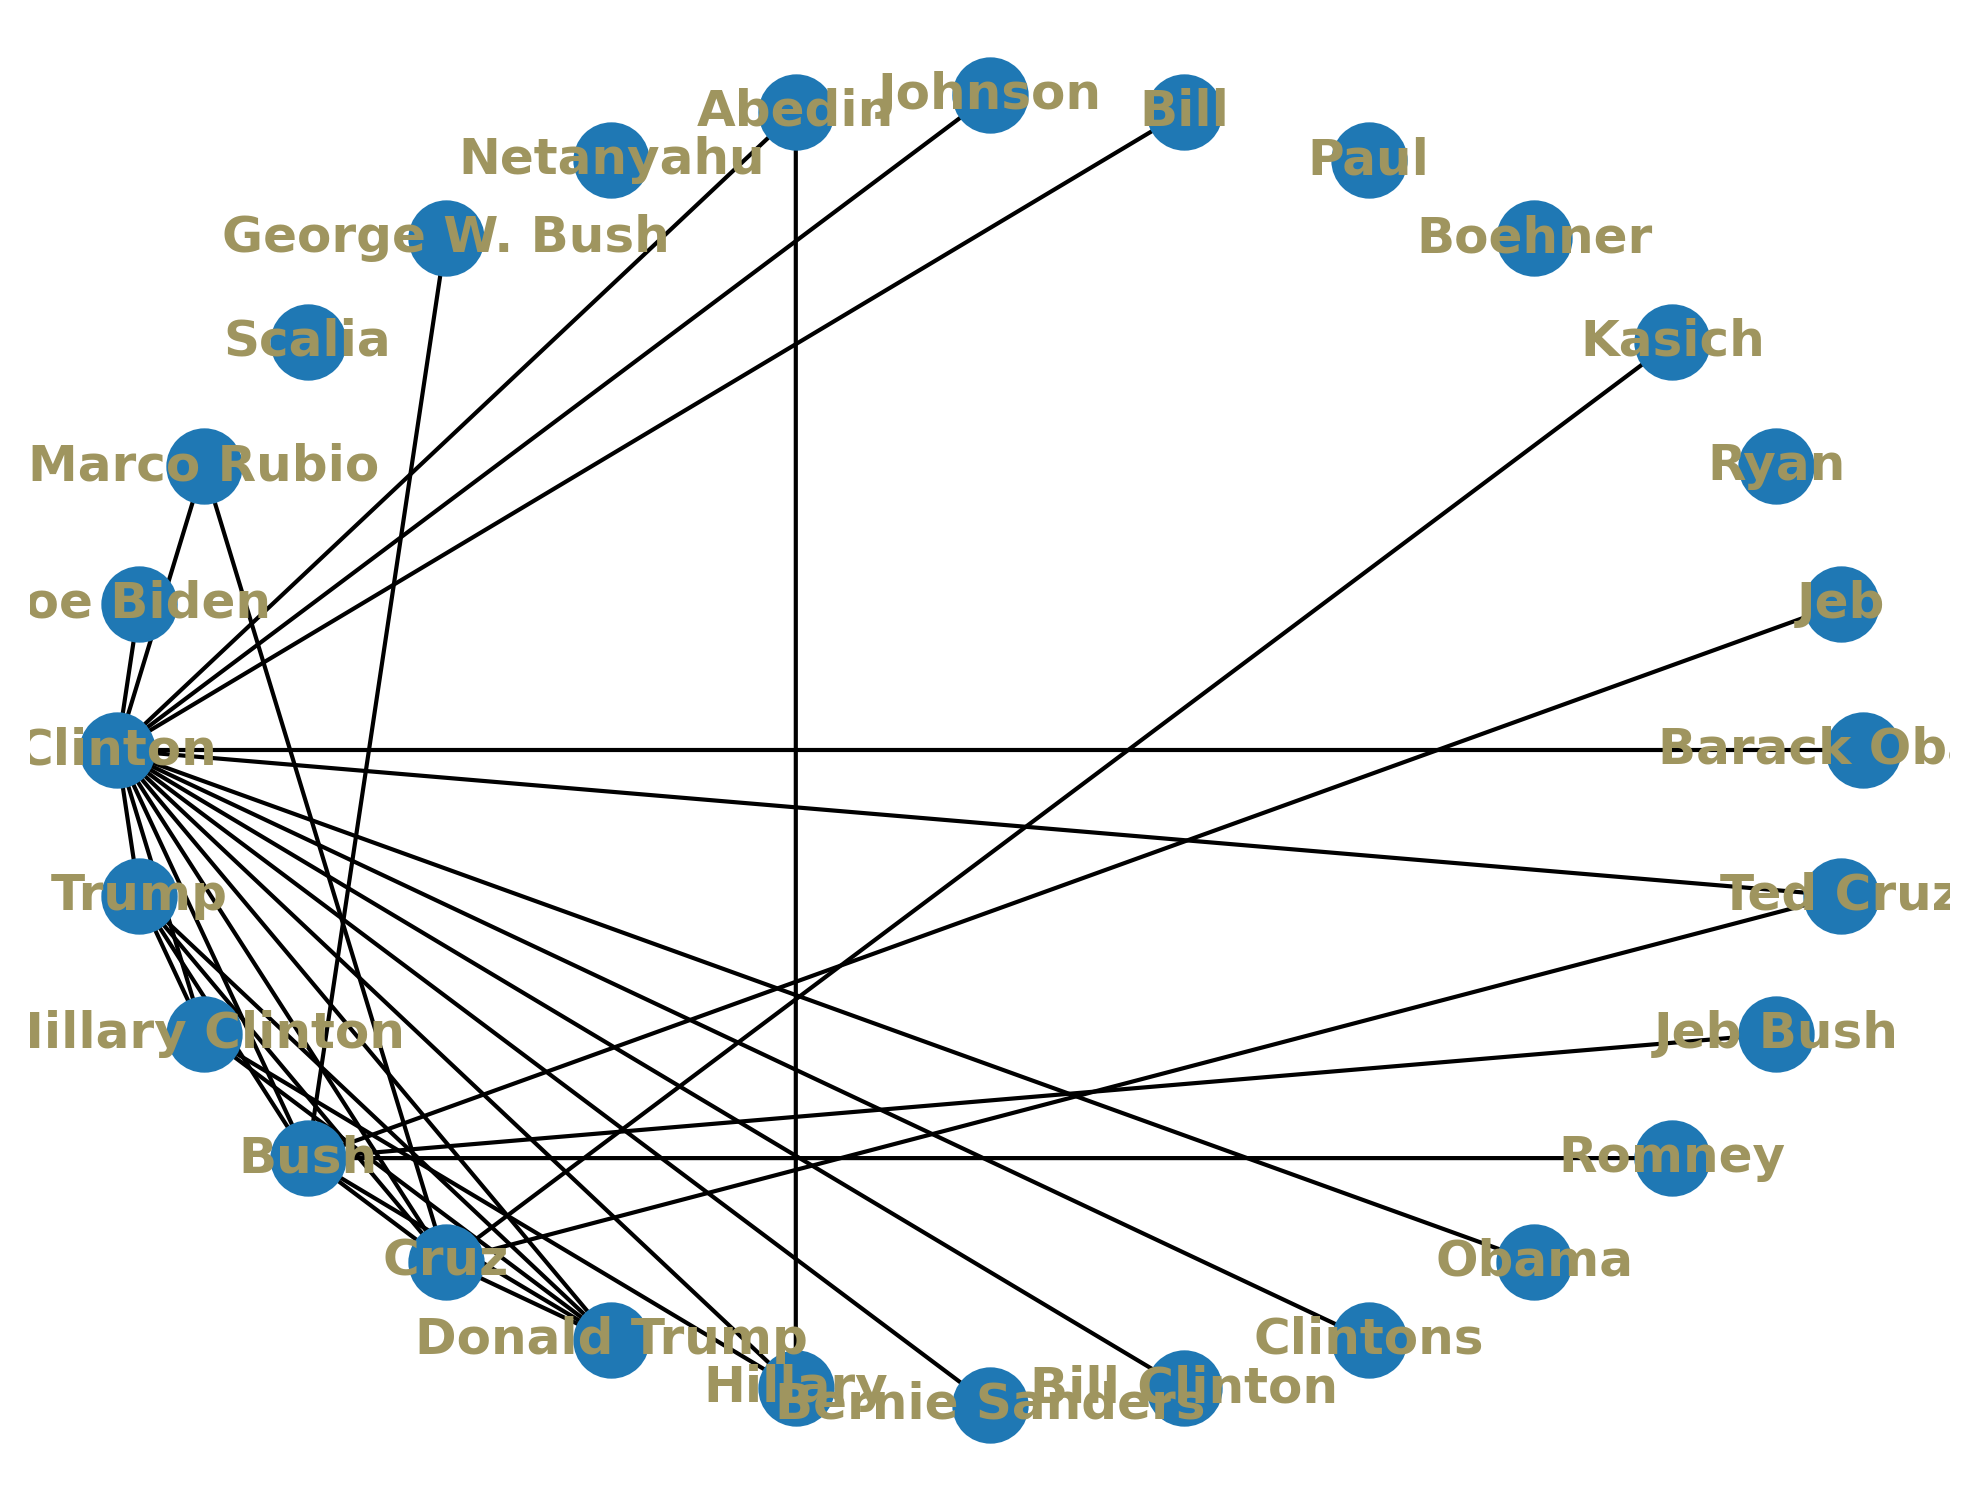
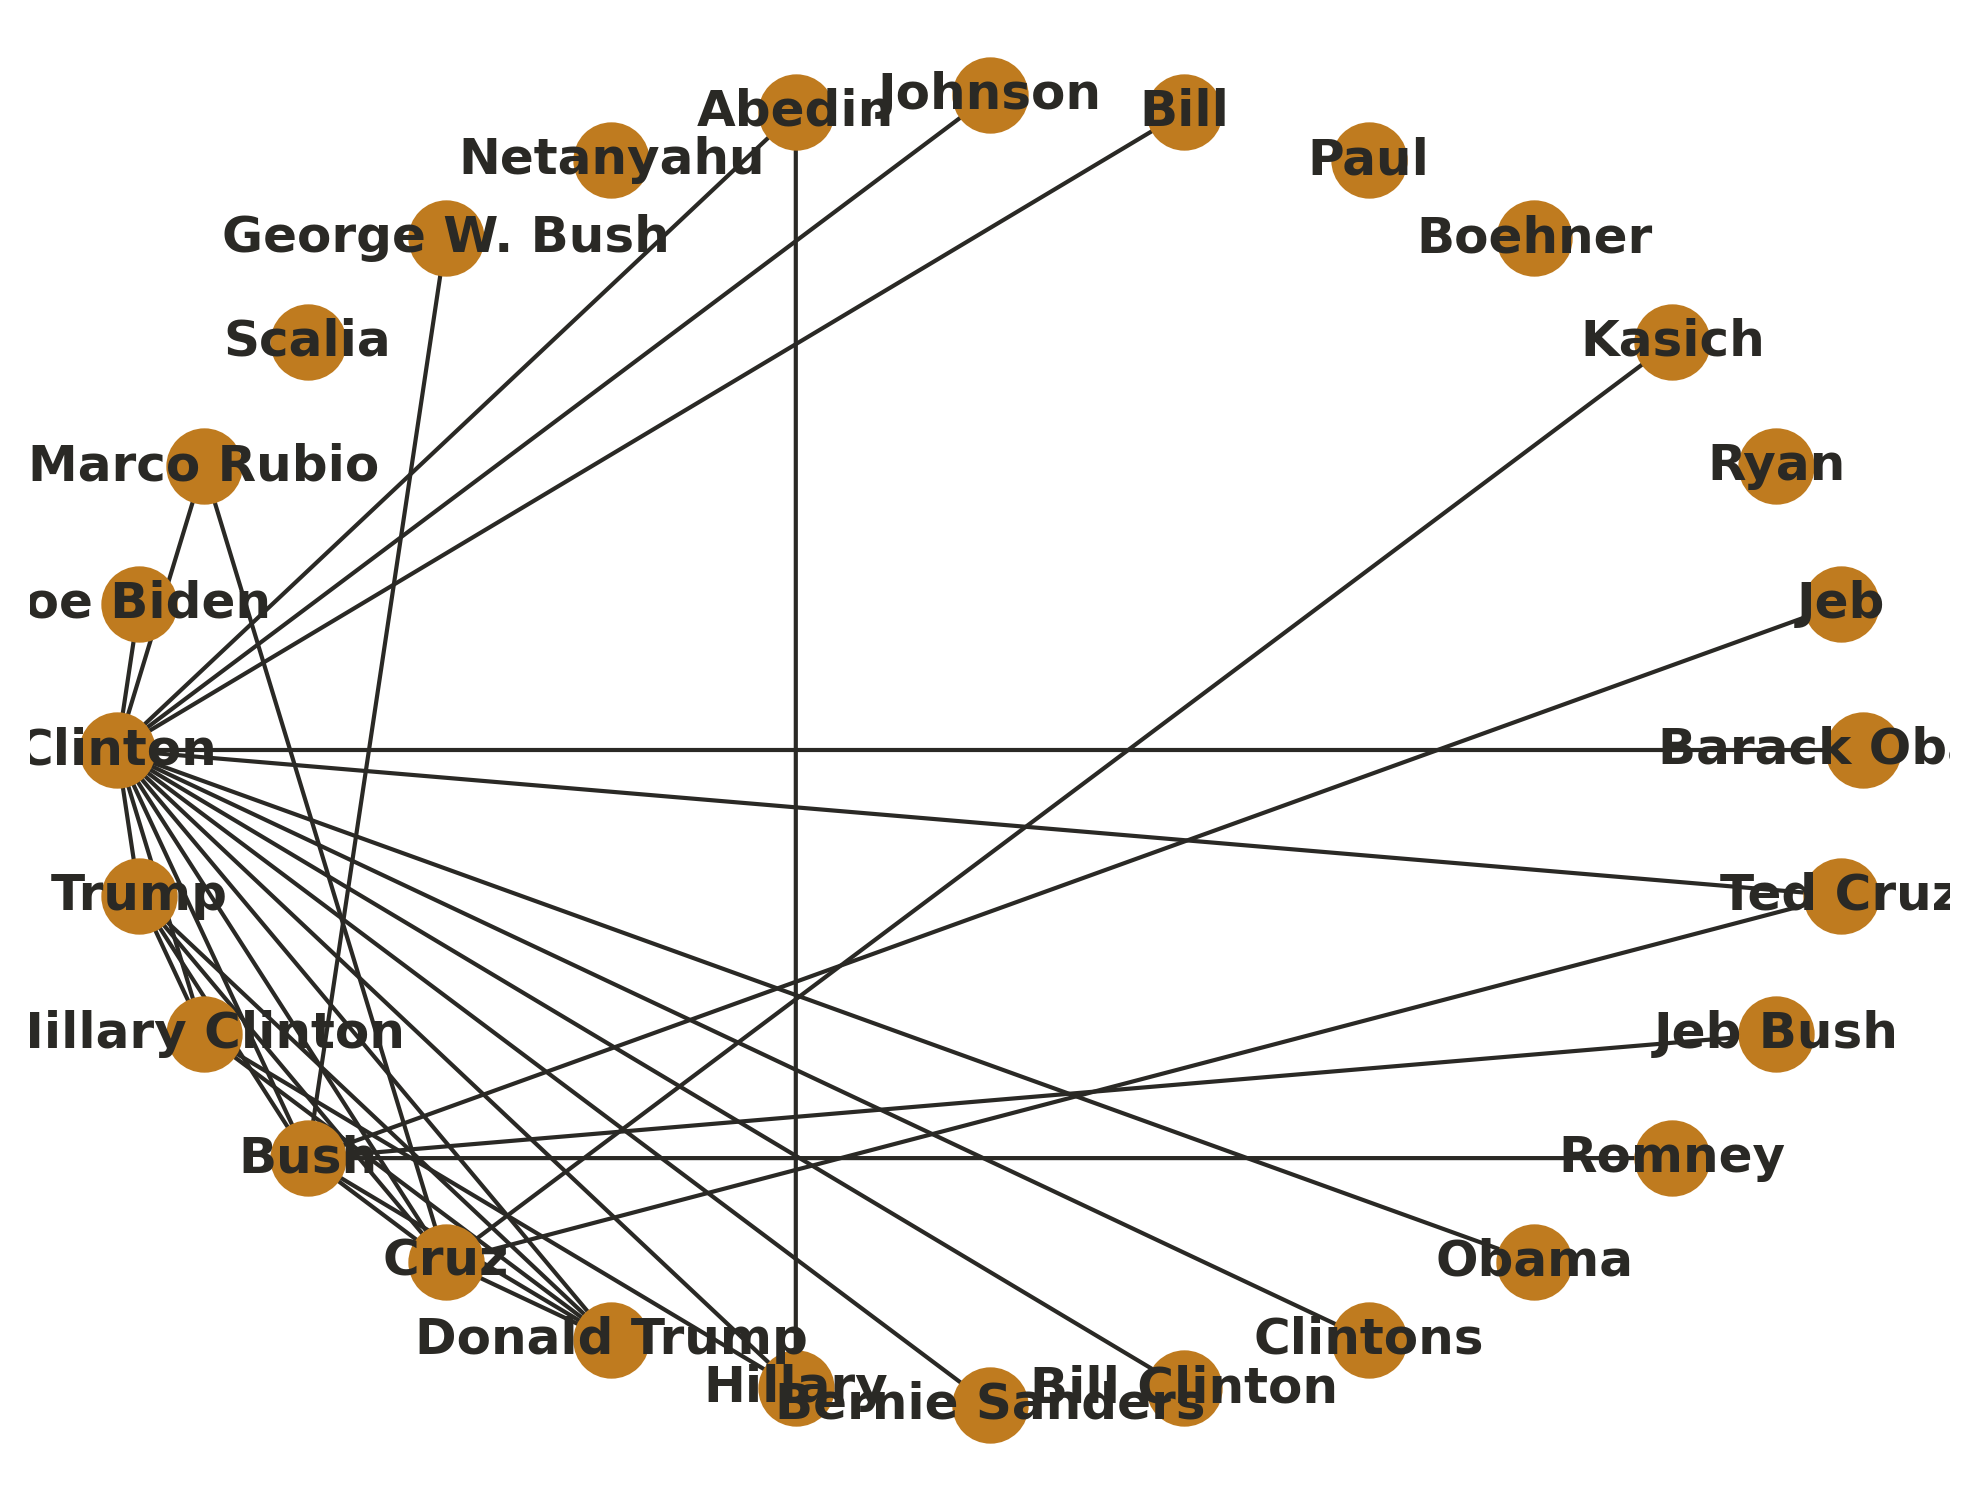
Minor updates to README and script

diff --git a/W6-Network-Analysis/W6-Network-Analysis.py b/W6-Network-Analysis/W6-Network-Analysis.py
@@ -19,7 +19,7 @@ It should also create a data frame showing the degree, betweenness, and eigenvec
 def main(args):
     # Adding arguments that can be specified in command line
     edgefile = args.fn 
-    n_edges = args.nn 
+    n_edges = args.ne 
 
     NetworkAnalysis(edgefile = edgefile, n_edges = n_edges),  # Calling main class 
 
@@ -87,7 +87,12 @@ class NetworkAnalysis:
         # Generating network graph
         graph = nx.from_pandas_edgelist(filtered_df, 'nodeA', 'nodeB', ["weight"])        
 
-        pos = nx.draw_shell(graph, with_labels = True, font_weight= 'bold', font_color = "#9F955F")
+        pos = nx.draw_shell(graph,
+                            with_labels = True, 
+                            font_weight= 'bold', 
+                            font_color = "#2A2925",
+                            edge_color = "#2A2925",
+                            node_color = "#BF7B1F")
         
         # Save graph
         graph_path = out_dir / "network.png" # Output path for graph
@@ -129,10 +134,10 @@ if __name__ == '__main__':
                         help='The name of the input edgefile',
                         required=False)
 
-    parser.add_argument('--nn',
-                        metavar="Number of nodes",
+    parser.add_argument('--ne',
+                        metavar="Number of edges",
                         type=int,
-                        help='The number of nodes to keep in the network.',
+                        help='The number of edges to keep in the network.',
                         required=False,
                         default=50)
 

diff --git a/W6-Network-Analysis/README.md b/W6-Network-Analysis/README.md
@@ -1,17 +1,14 @@
-# W4 - Sentiment Analysis
+# W6 - Network Analysis
 
 # Overview 
 
 **Jakob Grøhn Damgaard, March 2021** <br/>
-This repository contains the W4 assigmnent for the course *Language Analytics*
-
-# Sentiment Trends in the Headlines
-It is difficult to draw any major conclusions or inferences, When eyeballing the plots displaying the rolling weekly and monthly averages in headline polarity scores. However, both plots display a slight dip in average scores during the first decaded which is subsequently followed up by a steady increase starting around 2010. It could be speculated that this rise may be a result of a surge in use of social media. The prevalence of these platforms may have pushed news media towards the use of more sensational headlines. Lastly, there seems to be a steep spike in average scores during 2020 which might be attributed to the Covid-19 pandemic.
+This repository contains the W6 assigmnent for the course *Language Analytics*
 
 # Code
-The raw data files can be found in the *data* folder. This folder includes the full data set *abcnews-date-text.csv* and and a subset called *test_data.csv* which contains the first 20000 headlines. <br/>
-The code to execute the tasks can be found in the file *W4-Sentiment-Analysis.py*<br/>
-The two plots roduced by this script can be found in the folder *output*<br/>
+The raw data files can be found in the *data* folder. This folder includes the default edgefile *edges_df.csv* which the script has been tested on. <br/>
+The code to execute the tasks can be found in the file *W6-Network-Analysis.py*<br/>
+The plot and csv file produced by this script when using the default edgefile can be found in the folder *output*<br/>
 
 # Download and Execute
 To locally download a compressed zip version of this repository, one can zip the entire repository from GitHub by navigating back to the home page of the repository and clicking the *Code* button and then *Download ZIP*. <br/>
@@ -28,10 +25,9 @@ deactivate
 You can then proceed to run the script in the terminal by running the following line: 
 
 ```bash
-python W4-Sentiment-Analysis.py --filename test_data.csv
+python W6-Sentiment-Analysis.py --fn edges_df.csv --ne 50
 ```
-If you wish to run the script on the entire data set, change *test_data.csv* to *abcnews-date-text.csv* in the lines above.
-
+Notice that you can change the name of the input file if you wish to analyse a different edgefile as well as the number of edges to keep in the final plot. Feel free to play around with the number 
 
 # License
 Shield: [![CC BY-SA 4.0][cc-by-sa-shield]][cc-by-sa]
